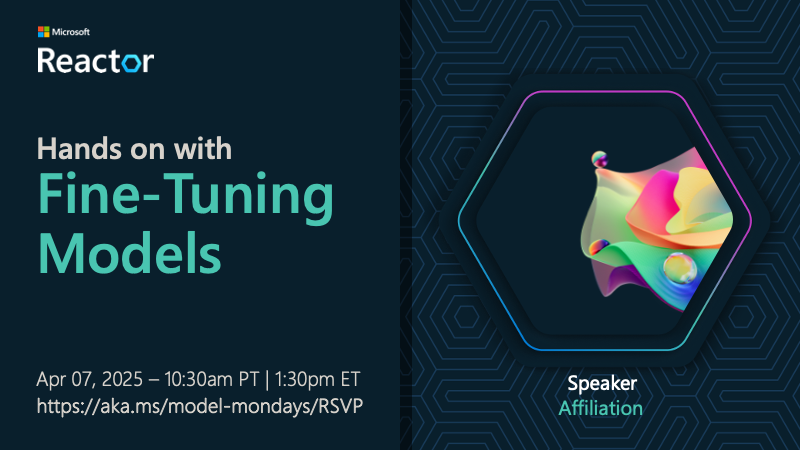
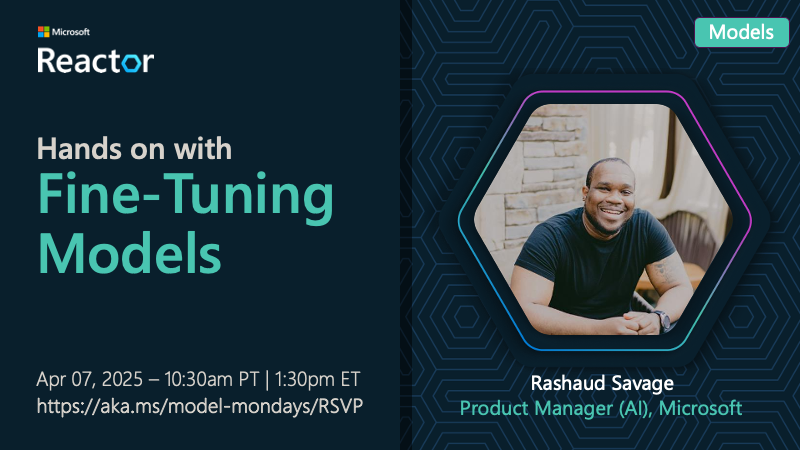
refresh / wk5

Changed region(s): [[0.5938, 0.2178, 0.9375, 0.7467], [0.5625, 0.8089, 0.9375, 0.9333], [0.8438, 0.0311, 1.0, 0.1244]]

diff --git a/README.md b/README.md
@@ -12,12 +12,13 @@ Join us, and take action to build your model IQ one week at a time!
 <br/>
 
 
-## New Episode · Mar 31, 2025
+## New Episode · Apr 07, 2025
 
-- **[Click here](https://youtu.be/Qs4fdy17b40?list=PLmsFUfdnGr3wzz6a4E-Szksg92JPng-AL) to register for livestream on Monday, Mar 31**
-- **[Click here](https://aka.ms/model-mondays/chat) to register for the AMA on Friday, Apr 04**
+- **[Click here](https://developer.microsoft.com/en-us/reactor/events/25356/) to register for livestream on Monday, Apr 07**
+- **[Click here](https://aka.ms/model-mondays/chat) to register for the AMA on Friday, Apr 11**
+- **[Click here](https://techcommunity.microsoft.com/blog/machinelearningblog/model-mondays-teaching-your-model-new-tricks-with-fine-tuning/4401129)** to read how fine tuning can teach your model new tricks.
 
-[![Banner](./docs/season-01/img/S1E4-spotlight.png)](https://youtu.be/Qs4fdy17b40?list=PLmsFUfdnGr3wzz6a4E-Szksg92JPng-AL)
+[![Banner](./docs/season-01/img/S1E5-spotlight.png)](https://youtu.be/Qs4fdy17b40?list=PLmsFUfdnGr3wzz6a4E-Szksg92JPng-AL)
 
 <br/>
 
@@ -33,11 +34,22 @@ Join us, and take action to build your model IQ one week at a time!
 | E01 · GitHub Models | Mar 10 | [**Replay**](https://developer.microsoft.com/reactor/events/25265/)| [GitHub Models](./docs/season-01/ep-01.md) | [PDF](https://speakerdeck.com/nitya/model-mondays-s1-e1-mar-10-2025)  | Mar 14  |
 | E02 ·  Reasoning Models| Mar 17 | [**Replay**](https://developer.microsoft.com/en-us/reactor/events/25266/) | [OpenAI, DeepSeek](./docs/season-01/ep-02.md)| [PDF](https://speakerdeck.com/nitya/model-mondays-s1-e2-hands-on-with-reasoning-models) · [Code](./labs/season-01/reasoning-models/README.md) | Mar 21 |
 | E03 ·  Search + Retrieval | Mar 24 |  [**Replay**](https://developer.microsoft.com/en-us/reactor/events/25354/) |[Cohere Rerank](./docs/season-01/ep-03.md) | [PDF](https://speakerdeck.com/nitya/model-mondays-s1-e3-hands-on-with-search-and-retrieval-models)  | Mar 28 |
-| E04 ·  Visual + Generative | Mar 31 |[**RSVP 🪧**](https://developer.microsoft.com/en-us/reactor/events/25355/) |[Stable Diffusion](./docs/season-01/ep-04.md) |  - | [Apr 03](https://aka.ms/model-mondays/chat) 🎙 |
-| E05 ·  Fine-Tuning | Apr 07 |[**RSVP 🪧**](https://developer.microsoft.com/en-us/reactor/events/25356/)  |[Mistral](./docs/season-01/ep-05.md) | - |  Apr 10 |
-| E06 ·  Synthetic Datasets | Apr 14 |[**RSVP 🪧**](https://developer.microsoft.com/en-us/reactor/events/25357/)  |[TBA](./docs/season-01/ep-06.md) | - |Apr 17 |
+| E04 ·  Visual + Generative | Mar 31 |[**Replay**](https://developer.microsoft.com/en-us/reactor/events/25355/) |[Stable Diffusion](./docs/season-01/ep-04.md) |  [PDF](https://speakerdeck.com/nitya/model-mondays-s1-e4-hands-on-with-visual-generative-ai) | Apr 03 |
+| E05 ·  Fine-Tuning | Apr 07 |[**RSVP 🪧**](https://developer.microsoft.com/en-us/reactor/events/25356/)  |[Mistral](./docs/season-01/ep-05.md) | - |  [Apr 10](https://aka.ms/model-mondays/chat) 🎙  |
+| E06 ·  Local AI Development | Apr 14 |[**RSVP 🪧**](https://developer.microsoft.com/en-us/reactor/events/25357/)  |[AI Toolkit (AITK)](./docs/season-01/ep-06.md) | - |Apr 17 |
 | E07 ·  Open Source | Apr 21 |[**RSVP 🪧**](https://developer.microsoft.com/en-us/reactor/events/25358/)  |[TBA](./docs/season-01/ep-07.md) | - | Apr 21 |
 | E08 ·  Forecasting Models | Apr 28 |[**RSVP 🪧**](https://developer.microsoft.com/en-us/reactor/events/25359/)  |[Nixtla TimeGEN](./docs/season-01/ep-08.md) | - | Apr 28 |
+| | |
+
+<br/>
+
+## S1E04: Stability AI Models
+
+> **[Click here](https://www.youtube.com/watch?v=kDR09m_cUKs) to watch the replay**
+
+In this episode, we are joined by Ken Hoge from Stability AI. Find out how their models enable visual generative AI applicatons with text-to-image and image-to-image capabiltiies, for delivering high-resolution and representative imagery.
+
+[![Banner](./docs/season-01/img/S1E4-spotlight.png)](https://developer.microsoft.com/en-us/reactor/events/25355/)
 
 <br/>
 
